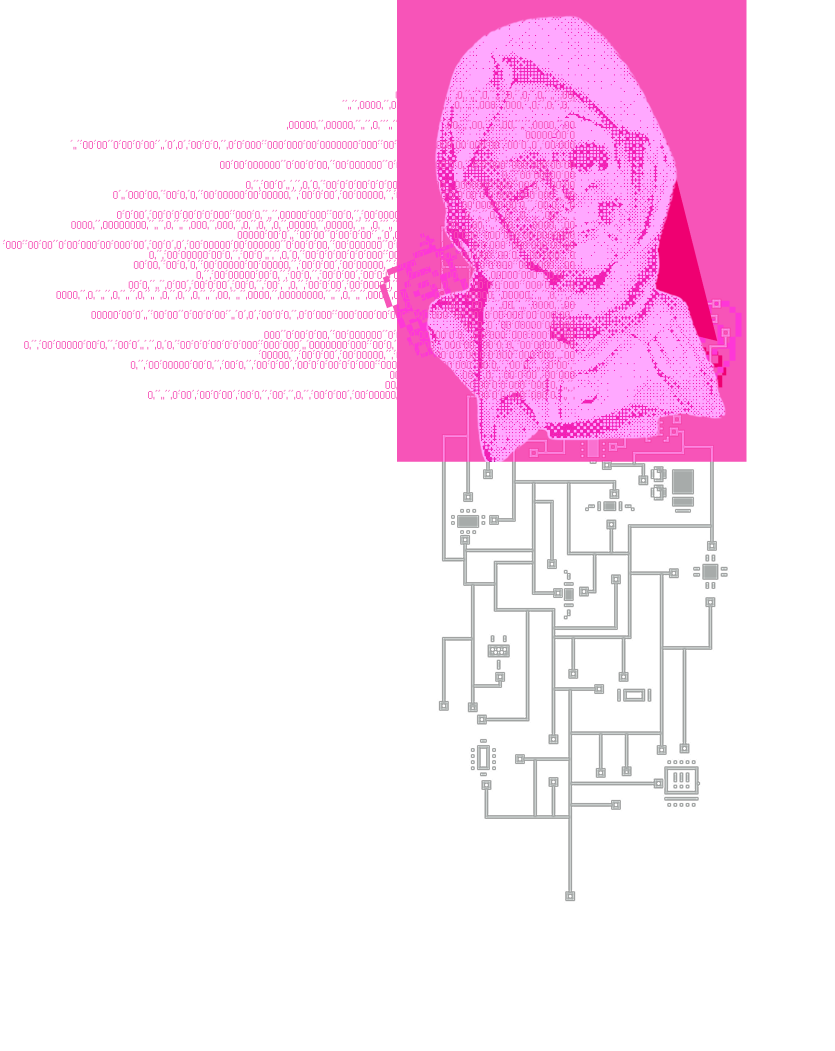
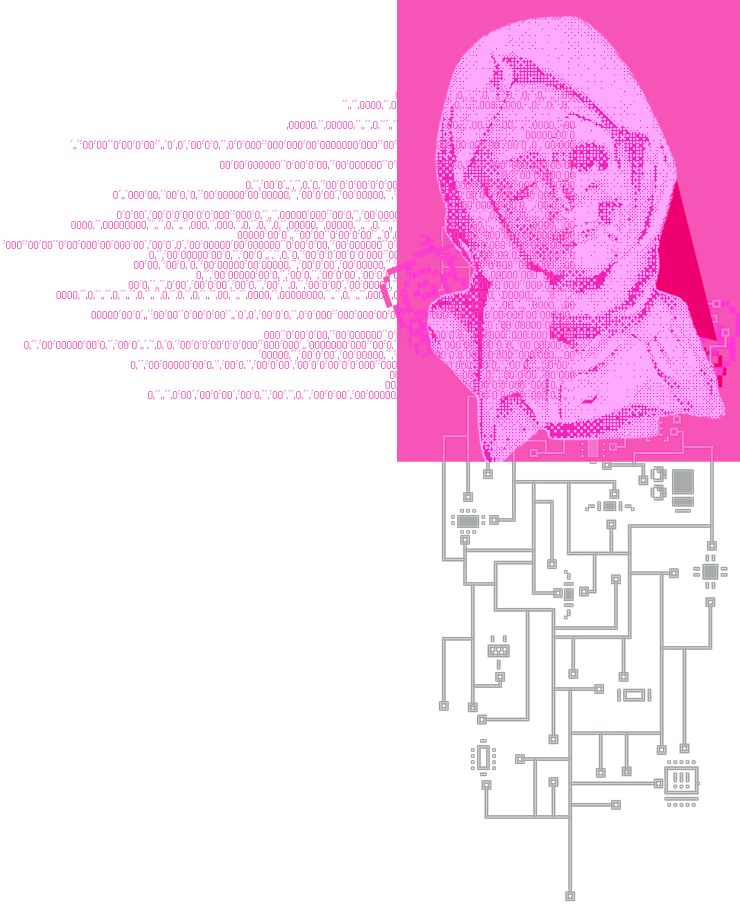
ajuste do tamanho de imagens e overflow lateral resolvido

Changed region(s): [[0.0, 0.0, 1.0, 1.0], [0.2486, 0.4312, 0.3108, 0.462]]

diff --git a/HyperPixel/src/pages/CSS/global.css b/HyperPixel/src/pages/CSS/global.css
@@ -8,6 +8,10 @@ html {
     padding: 0;
 }
 
+.TudoHome {
+    height: min-content;
+}
+
 .Home {
     margin-left: 2rem;
     display: flex;
@@ -36,33 +40,47 @@ html {
     font-size: 0.8rem;
 }
 
-.HomeCards, .CaveiraHome, .HomeCards h1{
-    flex: 1;
+.HomeCards, .HomeCards h1{
+    /* flex: 1; */
     display: flex;
     flex-direction: column;
     /* justify-content: space-between; */
 }
 
+#Caveira {
+  transform: translateX(-45rem);
+  position: relative;
+}
 
 
- .CaveiraHome img{
+ #Caveira{
     z-index: 5;
     position: relative;
     
-    bottom: 2.5rem;
+    bottom: 47rem;
     
-    right: 45rem;
+    left: 85rem;
 
     width: 52.1875rem;
+   
     height: auto;
  } 
 
-.Radio {
-    z-index: 3;
-    position: relative;
-
-right: 10rem;
+.CaveiraHome {
+    width: 0;
+    height: fit-content;
 }
+
+#Radio {
+  position: relative !important;
+  bottom: 60rem;
+  left: 72rem;
+  margin-bottom: -20rem;
+  z-index: 10;
+  width: fit-content;
+  height: fit-content;
+}
+
 
 .Corvo {
     z-index: -1;

diff --git a/HyperPixel/src/pages/Home.jsx b/HyperPixel/src/pages/Home.jsx
@@ -6,7 +6,8 @@ import imgThemes from "../data/themeImg";
 
 export default function Home( { theme } ) {
     return(
-        <div className='Home'>
+        <div id='TudoHome'>
+            <div className='Home'>
 
             <div className="HomeCards">
                 <div className="PrimeiroCard">
@@ -31,12 +32,19 @@ export default function Home( { theme } ) {
                 </div>
             </div>
 
-            <div className='CaveiraHome'>
-                <img  src={imgThemes[theme].imgCaveira} alt="a" />
-                <Card className="Radio" width={15.5} height={9.125} img={img}/>
-            </div>
+            
     
         </div>
+
+        <div className='CaveiraHome'>
+                <img id='Caveira' src={imgThemes[theme].imgCaveira} alt="a" />
+            </div>
+
+        <div id='Radio'>
+            <Card  width={15.5} height={9.125} img={img}/>
+        </div>
+        </div>
+        
         
     )
 }

diff --git a/HyperPixel/src/Components/CSS/global.css b/HyperPixel/src/Components/CSS/global.css
@@ -100,7 +100,7 @@ body {
 
 .Footer {
   margin-top: 2rem;
-  z-index: 99;
+  z-index: 60;
   
 }
 .Lanhouse {
@@ -139,6 +139,7 @@ body {
     margin-inline: 3rem;
     margin-top: 1rem;
     margin-bottom: 0.25rem;
+   
 }
 
 
